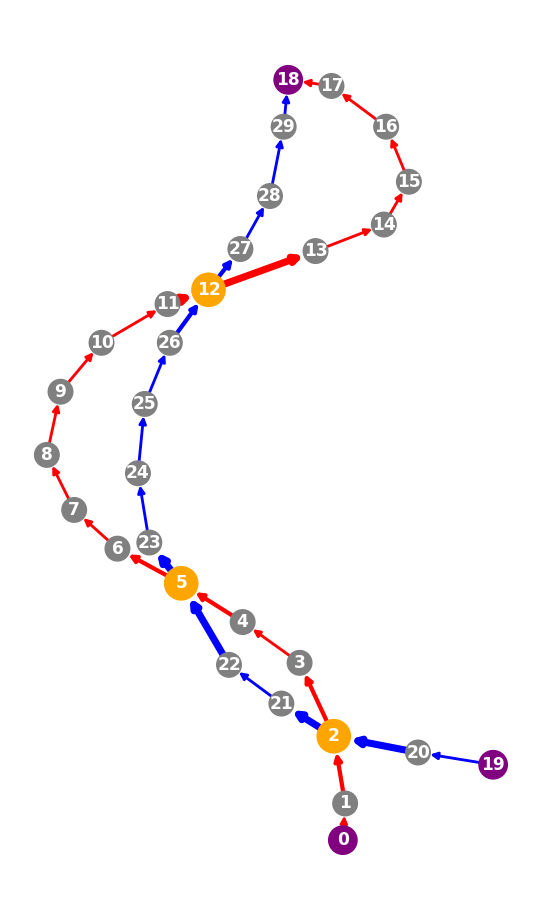
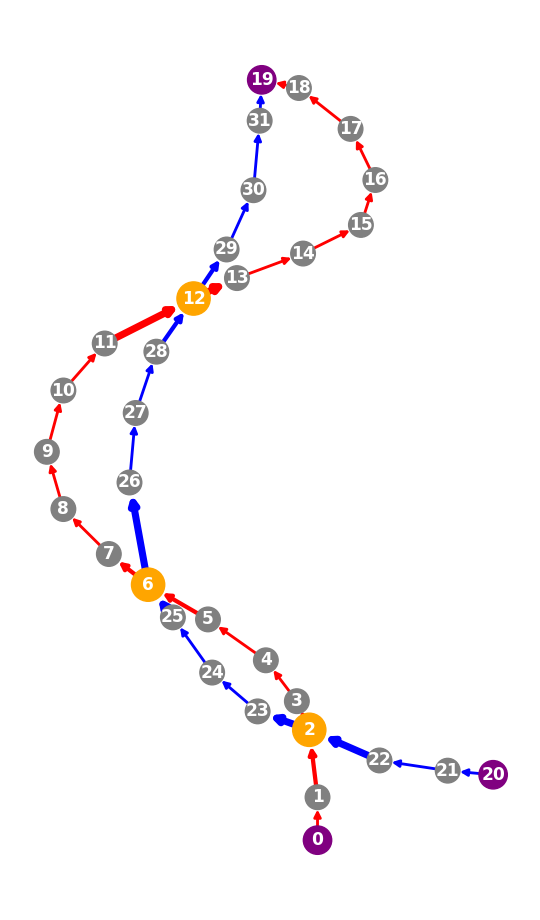
Done debugging optimization

Changed region(s): [[0.0593, 0.0609, 0.9481, 0.9435]]

diff --git a/scripts/cable_simple_policy.py b/scripts/cable_simple_policy.py
@@ -21,7 +21,8 @@ class CableSimplePolicy:
         # self.fa = MyFranka()
         self.workspace = [(0, 0), (width, height)]  # top left, bot right
         self.weight_dist = 1.0
-        self.weight_curv = 1.0
+        self.weight_curv = 60
+        self.rim = 30
         self.lift_z = 0.1
         self.use_rs = use_rs
         if self.use_rs is True:
@@ -56,14 +57,16 @@ class CableSimplePolicy:
         next_id, nodes = graph.get_next_fixed_keypoint(
             graph.get_free_endpoint()
         )
-        # self.cg.compound_graph.visualize(
-        #     save_path="cableGraphs/composite_original.png"
-        # )
-        for node in nodes:
+        self.cg.compound_graph.visualize(
+            save_path="cableGraphs/composite_original.png"
+        )
+        for node in nodes[3:]:
             # attemp to move this node to free space
             goal_coord, goal_vec = self.search_goal_coord(
                 node, next_id, cableID
             )
+            print("goal: ", goal_coord, goal_vec)
+            quit()
             if goal_coord is not None:
                 # fill in action params (2d, except z)
                 action = Action(True)
@@ -101,10 +104,10 @@ class CableSimplePolicy:
 
     def is_in_workspace(self, point):
         return (
-            point[0] >= self.workspace[0][0]
-            and point[0] < self.workspace[1][0]
-            and point[1] >= self.workspace[0][1]
-            and point[1] < self.workspace[1][1]
+            point[0] >= self.workspace[0][0] + self.rim
+            and point[0] < self.workspace[1][0] - self.rim
+            and point[1] >= self.workspace[0][1] + self.rim
+            and point[1] < self.workspace[1][1] - self.rim
         )
 
     def get_num_crossings(
@@ -128,7 +131,7 @@ class CableSimplePolicy:
 
         graph_others = self.cg.create_compound_graph_except(cableID)
         num_other_cables = len(self.cg.graphs) - 1
-        save_path = f"cableGraphs/numcx_composite_pivot_{pivot_point_id}_grasp_{grasp_point_id}.png"
+        save_path = f"cableGraphs/numcx_composite_transitioned.png"
         path = None
         if vis is True:
             composite_graph = graph_this.compose(graph_others)
@@ -138,7 +141,7 @@ class CableSimplePolicy:
                 composite_graph.visualize()
         num_cx = graph_this.get_num_crossings_two_graphs(graph_others)
         # also subtract repeated count at the fixed endpoint
-        return num_cx - num_other_cables, path
+        return num_cx - num_other_cables, save_path
 
     def generate_action_space(
         self,
@@ -158,7 +161,7 @@ class CableSimplePolicy:
         graph: Graph = self.cg.graphs[cableID]
         grasp_point = np.array(graph.get_node_coords(grasp_point_id))
         pivot_point = np.array(graph.get_node_coords(pivot_point_id))
-        thetas = np.linspace(-np.pi / 2, np.pi / 2, num=30)
+        thetas = np.linspace(-np.pi / 2, np.pi / 2, num=100)
         thetas = np.hstack(([0], thetas))
         theta_ranges = {}  # {elim_num1: [[],[],..], elim_num2: [[],[],..]}
         theta_range_tmp = []
@@ -196,16 +199,16 @@ class CableSimplePolicy:
                         theta_range_tmp[1] = theta
                 # debug
                 print("theta: ", theta, " num_cx_new: ", num_cx_new)
-                # _, _ = self.get_num_crossings(
-                #     pivot_point_id,
-                #     grasp_point_id,
-                #     res_point.tolist(),
-                #     cableID,
-                #     vis=True,
-                #     save=False,
-                # )
+                _, _ = self.get_num_crossings(
+                    pivot_point_id,
+                    grasp_point_id,
+                    res_point.tolist(),
+                    cableID,
+                    vis=False,
+                    save=False,
+                )
             # for plotting
-            if False:
+            if i == 0:
                 res_ok = False
                 theta_range_tmp = []
                 elim_num = 0
@@ -230,8 +233,6 @@ class CableSimplePolicy:
         # only return the theta ranges with the biggest elim num
         max_elim_num = np.max(list(theta_ranges.keys()))
         # draw on fig the theta ranges
-        print("theta ranges: ")
-        print(theta_ranges)
         angle0 = self.get_zero_theta_vector_angle(grasp_point, pivot_point)
         # for plotting
         if save_path is not None:
@@ -269,9 +270,7 @@ class CableSimplePolicy:
                 label=r"|$V_{elim}$|",
                 orientation="vertical",
             )
-            plt.savefig(
-                f"cableGraphs/composite_with_action_space_grasp_{grasp_point_id}_pivot_{pivot_point_id}.png"
-            )
+            plt.savefig(f"cableGraphs/composite_with_action_space.png")
             plt.show()
         return theta_ranges[max_elim_num]
 
@@ -293,14 +292,17 @@ class CableSimplePolicy:
             theta, length, grasp_point, pivot_point
         )
         # dist between res and pivot devided by average edge length in graph
-        num_new_edges = calcDistance(
-            pivot_point[0], pivot_point[1], res_point[0], res_point[1]
-        ) / (
-            graph.compute_length(
-                graph.get_free_endpoint(), graph.get_fixed_endpoint()
+        num_new_edges = np.ceil(
+            calcDistance(
+                pivot_point[0], pivot_point[1], res_point[0], res_point[1]
             )
-            / len(graph.get_edges())
-        )
+            / (
+                graph.compute_length(
+                    graph.get_free_endpoint(), graph.get_fixed_endpoint()
+                )
+                / len(graph.get_edges())
+            )
+        ).astype(np.int32)
         graph_this.grow_branch(res_point, pivot_point_id, div=num_new_edges)
 
         for cableid, graph in self.cg.graphs.items():
@@ -308,7 +310,7 @@ class CableSimplePolicy:
                 dist_cost = -graph_this.calc_distance_between_graphs(
                     self.cg.graphs[cableid]
                 )
-                curv_cost = graph_this.calc_curvature(pivot_point_id)
+                curv_cost = -graph_this.calc_curvature(pivot_point_id)
                 cost += (
                     self.weight_dist * dist_cost + self.weight_curv * curv_cost
                 )
@@ -335,19 +337,44 @@ class CableSimplePolicy:
         print(theta_ranges)
         thetas = []
         costs = []
-        for theta_range in theta_ranges:
+        fig, axs = plt.subplots(1, len(theta_ranges), squeeze=False)
+        fig.suptitle("Cost in action subspace")
+        for i, theta_range in enumerate(theta_ranges):
             res = minimize_scalar(
                 self.calc_cost,
-                args=(total_length, pivot_point_id, cableID),
+                args=(total_length, grasp_point_id, pivot_point_id, cableID),
                 bounds=theta_range,
                 method="bounded",
             )
-            if res.status is True:
+            print(res)
+            if res.success is True:
                 thetas.append(res.x)
                 costs.append(res.fun)
+            thetas_ = np.linspace(theta_range[0], theta_range[1], num=60)
+            all_costs = np.array(
+                [
+                    self.calc_cost(
+                        the,
+                        total_length,
+                        grasp_point_id,
+                        pivot_point_id,
+                        cableID,
+                    )
+                    for the in thetas_
+                ]
+            )
+            axs[0, i].plot(thetas_, all_costs)
+            axs[0, i].plot(res.x, res.fun, color="red", marker="o")
+        print(thetas)
         if len(thetas) == 0:
             return None
+        for ax in axs.flat:
+            ax.set(xlabel=r"$\theta$", ylabel="Cost")
+        plt.savefig(f"cableGraphs/cost.png")
+        plt.show()
+
         theta = thetas[np.argmin(costs)]
+        print(theta)
         # convert theta into goal coord
         goal_coord, goal_vec = self.theta_to_goal_coord(
             theta, grasp_point_id, pivot_point_id, grasp_length, cableID

diff --git a/scripts/graph_builder.py b/scripts/graph_builder.py
@@ -252,7 +252,7 @@ class Graph:
         this_id = self.add_node(NODE_FREE, coords=this_coord.tolist())
         for i in range(div):
             if i < div - 1:
-                next_coord = this_coord + vec * i
+                next_coord = this_coord + vec
                 next_id = self.add_node(NODE_FREE, coords=next_coord.tolist())
                 self.add_edge(this_id, next_id, pos=POS_NONE)
                 this_id = next_id
@@ -372,7 +372,7 @@ class Graph:
             )
             if best_dist is None or dist < best_dist:
                 best_dist = dist
-                best_dist = id
+                best_id = id
         return best_dist, best_id
 
     def calc_distance_between_graphs(self, other: "Graph"):
@@ -380,7 +380,9 @@ class Graph:
         graph and compute the distance, (then average them)?"""
         sum_dist = 0
         for id_this in self.get_nodes():
-            dist, _ = other.find_nearest_node(self.get_node_coords(id_this))
+            dist, id_that = other.find_nearest_node(
+                self.get_node_coords(id_this)
+            )
             sum_dist += dist
         return sum_dist / len(self.get_nodes())
 
@@ -692,3 +694,7 @@ if __name__ == "__main__":
     endid = cg.graphs["cable_blue"].get_fixed_endpoint()
     # subg = cg.graphs["cable_blue"].build_subgraph(27, endid)
     # subg.visualize()
+    dist = cg.graphs["cable_red"].calc_distance_between_graphs(
+        cg.graphs["cable_blue"]
+    )
+    print(dist)
